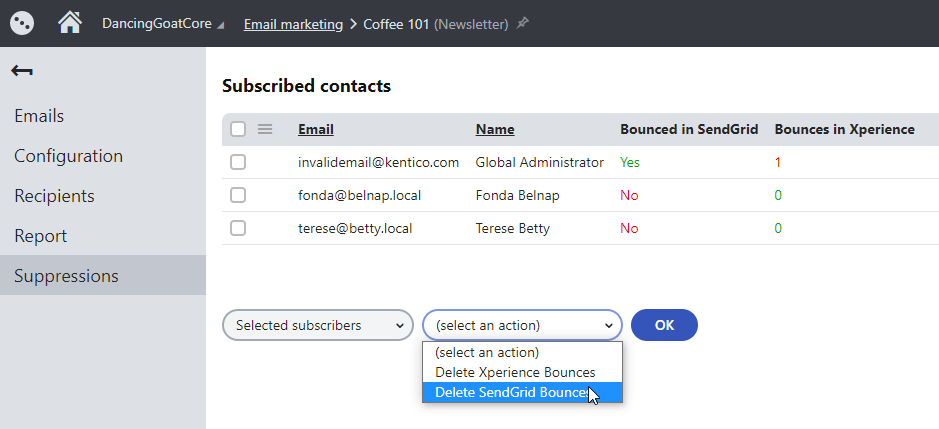
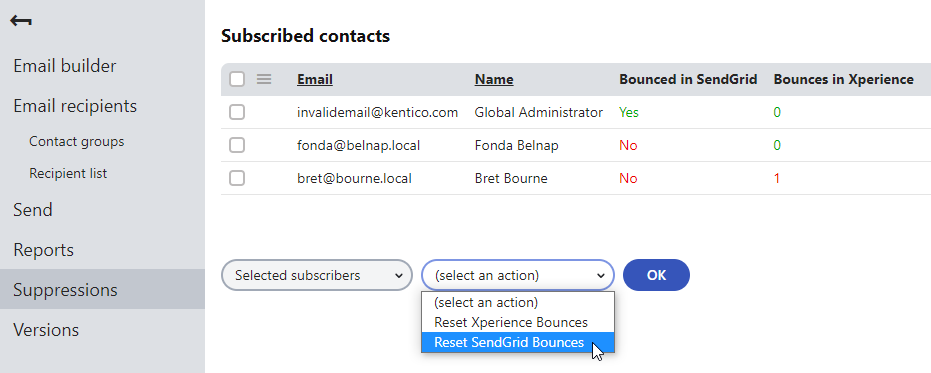
check module permissions, change action names

diff --git a/CMSModules/Kentico.Xperience.Twilio.SendGrid/Pages/SuppressionManagement.aspx.cs b/CMSModules/Kentico.Xperience.Twilio.SendGrid/Pages/SuppressionManagement.aspx.cs
@@ -4,6 +4,7 @@ using CMS.Core;
 using CMS.DataEngine;
 using CMS.Helpers;
 using CMS.Newsletters;
+using CMS.Newsletters.Web.UI;
 using CMS.UIControls;
 
 using Kentico.Xperience.Twilio.SendGrid.Models;
@@ -23,7 +24,7 @@ namespace Kentico.Xperience.Twilio.SendGrid.Pages
     /// An administration UI page which displays subscribers of a newsletter or email campaign issue and allows
     /// mass actions to be performed on the subscribers.
     /// </summary>
-    public partial class SuppressionManagement : CMSPage
+    public partial class SuppressionManagement : CMSNewsletterPage
     {
         private IEnumerable<SendGridBounce> bounceData;
         private IEnumerable<ContactInfo> subscribedContacts;
@@ -198,14 +199,14 @@ namespace Kentico.Xperience.Twilio.SendGrid.Pages
                 new MassActionItem
                 {
                     ActionType = MassActionTypeEnum.OpenModal,
-                    CodeName = "Delete Xperience Bounces",
-                    CreateUrl = functionConverter(GetMassActionUrl, SendGridConstants.ACTION_DELETE_XPERIENCE_BOUNCE, "Delete Xperience Bounces")
+                    CodeName = "Reset Xperience Bounces",
+                    CreateUrl = functionConverter(GetMassActionUrl, SendGridConstants.ACTION_DELETE_XPERIENCE_BOUNCE, "Reset Xperience Bounces")
                 },
                 new MassActionItem
                 {
                     ActionType = MassActionTypeEnum.OpenModal,
-                    CodeName = "Delete SendGrid Bounces",
-                    CreateUrl = functionConverter(GetMassActionUrl, SendGridConstants.ACTION_DELETE_SENDGRID_BOUNCE, "Delete SendGrid Bounces")
+                    CodeName = "Reset SendGrid Bounces",
+                    CreateUrl = functionConverter(GetMassActionUrl, SendGridConstants.ACTION_DELETE_SENDGRID_BOUNCE, "Reset SendGrid Bounces")
                 }
             );
         }

diff --git a/CMSModules/Kentico.Xperience.Twilio.SendGrid/Pages/SuppressionManagementMassAction.aspx.cs b/CMSModules/Kentico.Xperience.Twilio.SendGrid/Pages/SuppressionManagementMassAction.aspx.cs
@@ -295,6 +295,11 @@ namespace Kentico.Xperience.Twilio.SendGrid.Pages
                 GetSelectedContacts()
                     .ForEachObject(contact =>
                     {
+                        if (!contact.CheckPermissions(PermissionsEnum.Read, CurrentSiteName, CurrentUser))
+                        {
+                            return;
+                        }
+
                         switch (Parameters.ActionName)
                         {
                             case SendGridConstants.ACTION_DELETE_SENDGRID_BOUNCE:
@@ -367,7 +372,7 @@ namespace Kentico.Xperience.Twilio.SendGrid.Pages
                     return;
                 }
 
-                AddErrorLog(errorLog, $"Couldn't delete bounces for {contact.ContactEmail}.");
+                AddErrorLog(errorLog, $"Couldn't reset bounces for {contact.ContactEmail}.");
             }
         }
 
@@ -380,7 +385,7 @@ namespace Kentico.Xperience.Twilio.SendGrid.Pages
         private void AddSuccessLog(LogContext logProgress, string displayableName)
         {
             ctlAsyncLog.AddLog(displayableName);
-            string deletedMessage = $"Bounces for {displayableName} were deleted.";
+            string deletedMessage = $"Bounces for {displayableName} were reset.";
             logProgress.LogEvent(EventType.INFORMATION, nameof(SuppressionManagementMassAction), "DeleteBounces", deletedMessage, RequestContext.RawURL, CurrentUser.UserID, CurrentUser.UserName,
                 0, null, RequestContext.UserHostAddress, SiteContext.CurrentSiteID, SystemContext.MachineName, RequestContext.URLReferrer, RequestContext.UserAgent, DateTime.Now);
         }

diff --git a/README.md b/README.md
@@ -117,7 +117,7 @@ Within the Xperience __Email marketing__ application you will find a new tab cal
 
 ![suppressions-img]
 
-The __Bounced in SendGrid__ column indicates whether the email is listed under SendGrid's __Suppressions → Bounces__ list. The __Bounces in Xperience__ column lists the number of bounces recorded in the Xperience database, and will be red if the number of bounces exceeds the _"Bounced email limit"_ setting in __Settings → On-line marketing → Email marketing__. Using the checkboxes and drop-down menu at the bottom of the grid, you can delete these suppressions to ensure that your emails are delivered to the recipients.
+The __Bounced in SendGrid__ column indicates whether the email is listed under SendGrid's __Suppressions → Bounces__ list. The __Bounces in Xperience__ column lists the number of bounces recorded in the Xperience database, and will be red if the number of bounces exceeds the _"Bounced email limit"_ setting in __Settings → On-line marketing → Email marketing__. Using the checkboxes and drop-down menu at the bottom of the grid, you can reset these bounces to ensure that your emails are delivered to the recipients.
 
 ## Feedback & Contributing
 
